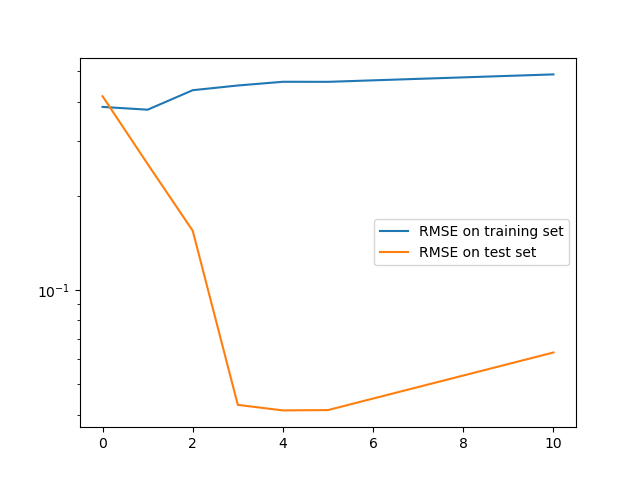
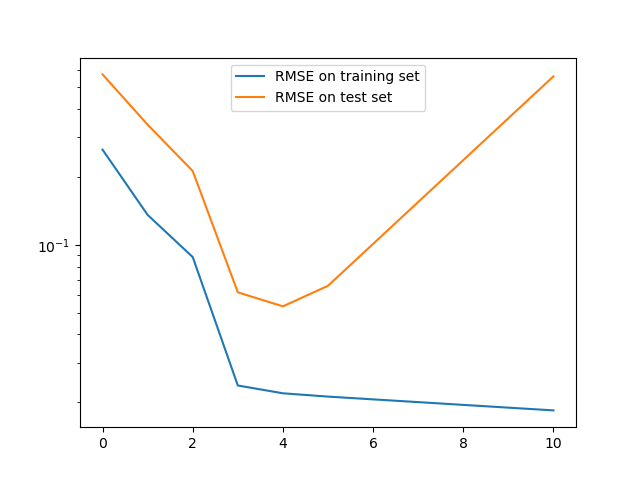
Fix predictions with training data

diff --git a/pol_regression.py b/pol_regression.py
@@ -120,18 +120,19 @@ def main():
             w = 1
 
         # Make predictions based on training model
-        y_hat = prediction(x_test, w, degree)
-
-        # Plot predictions
-        plt.plot(x_test, y_hat, select_color(i))
+        y_hat_train = prediction(x_train, w, degree)
+        y_hat_test = prediction(x_test, w, degree)
 
         # Measure accuracy of model
         # RMSE of training set
-        train_error_array[i] = eval_pol_regression(x_train, y_train, y_hat, i)
+        train_error_array[i] = eval_pol_regression(x_train, y_train, y_hat_train, i)
 
         # RMSE of testing set
-        test_error_array[i] = eval_pol_regression(x_test, y_test, y_hat, i)
+        test_error_array[i] = eval_pol_regression(x_test, y_test, y_hat_test, i)
         # print("[Degree: {0}] - Train: {1:.4f}, Test: {2:.4f}".format(i, train_error, test_error))
+
+        # Plot predictions
+        plt.plot(x_test, y_hat_test, select_color(i))
     
     
     # Set plot between 5 and -5
